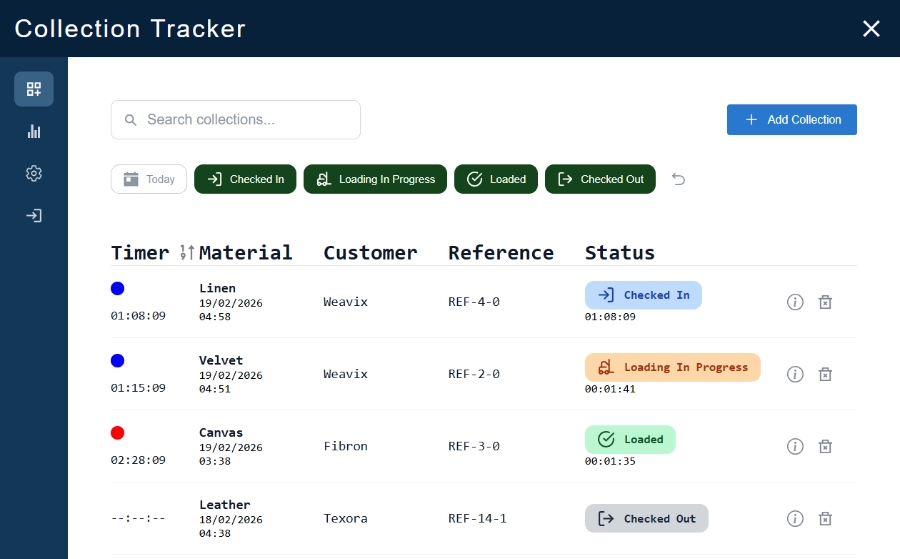
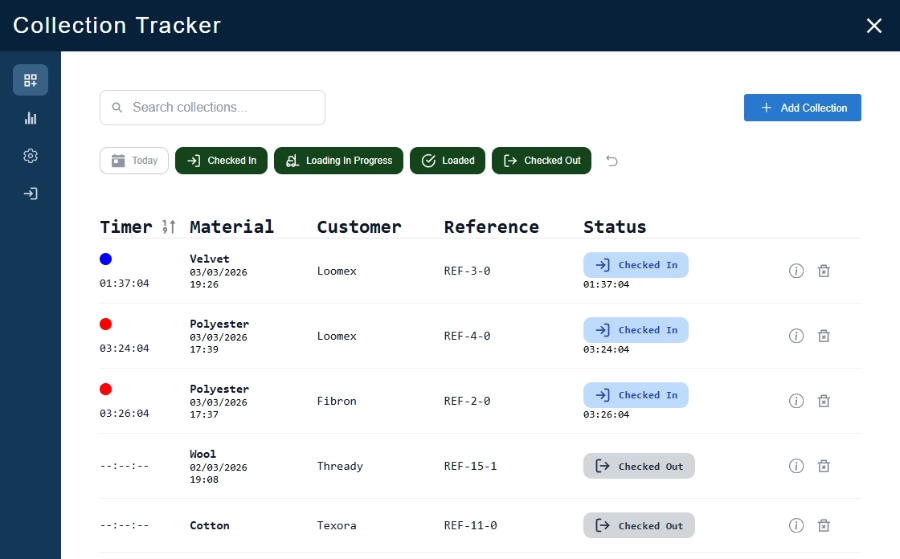
Update project card demo button logic, Gazetteer metadata, and project image

diff --git a/src/shared/components/card.tsx b/src/shared/components/card.tsx
@@ -61,7 +61,7 @@ export default function Card(props: CardProps) {
             {/* ACTION BUTTONS (NOT INSIDE LINK) */}
             {variant === "project" && (
                 <div className="card-actions">
-                    <button
+                    {data.liveDemoUrl && <button
                         type="button"
                         className="btn secondary"
                         onClick={() =>
@@ -73,7 +73,7 @@ export default function Card(props: CardProps) {
                         }
                     >
                         Live Demo
-                    </button>
+                    </button>}
 
                     {!data.isGitHubRepoPrivate && (
                         <button

diff --git a/src/features/portfolio/sections/projects/gazetteer/meta.ts b/src/features/portfolio/sections/projects/gazetteer/meta.ts
@@ -10,7 +10,8 @@ export const meta: Project = {
         "An interactive geospatial web application that aggregates real-time country data from multiple APIs and visualises it through a dynamic map interface.",
     info: "Geospatial data application",
     labels: ["HTML", "CSS", "JavaScript", "PHP", "Leaflet.js", "REST APIs"],
-    liveDemoUrl: "https://transferstation.co.uk/gazetteer/",
+    // liveDemoUrl: "https://transferstation.co.uk/gazetteer/",
+    liveDemoUrl: "",
     gitHubUrl: "https://github.com/Karoly-Git/gazetteer",
     isGitHubRepoPrivate: false,
     isActive: true,
